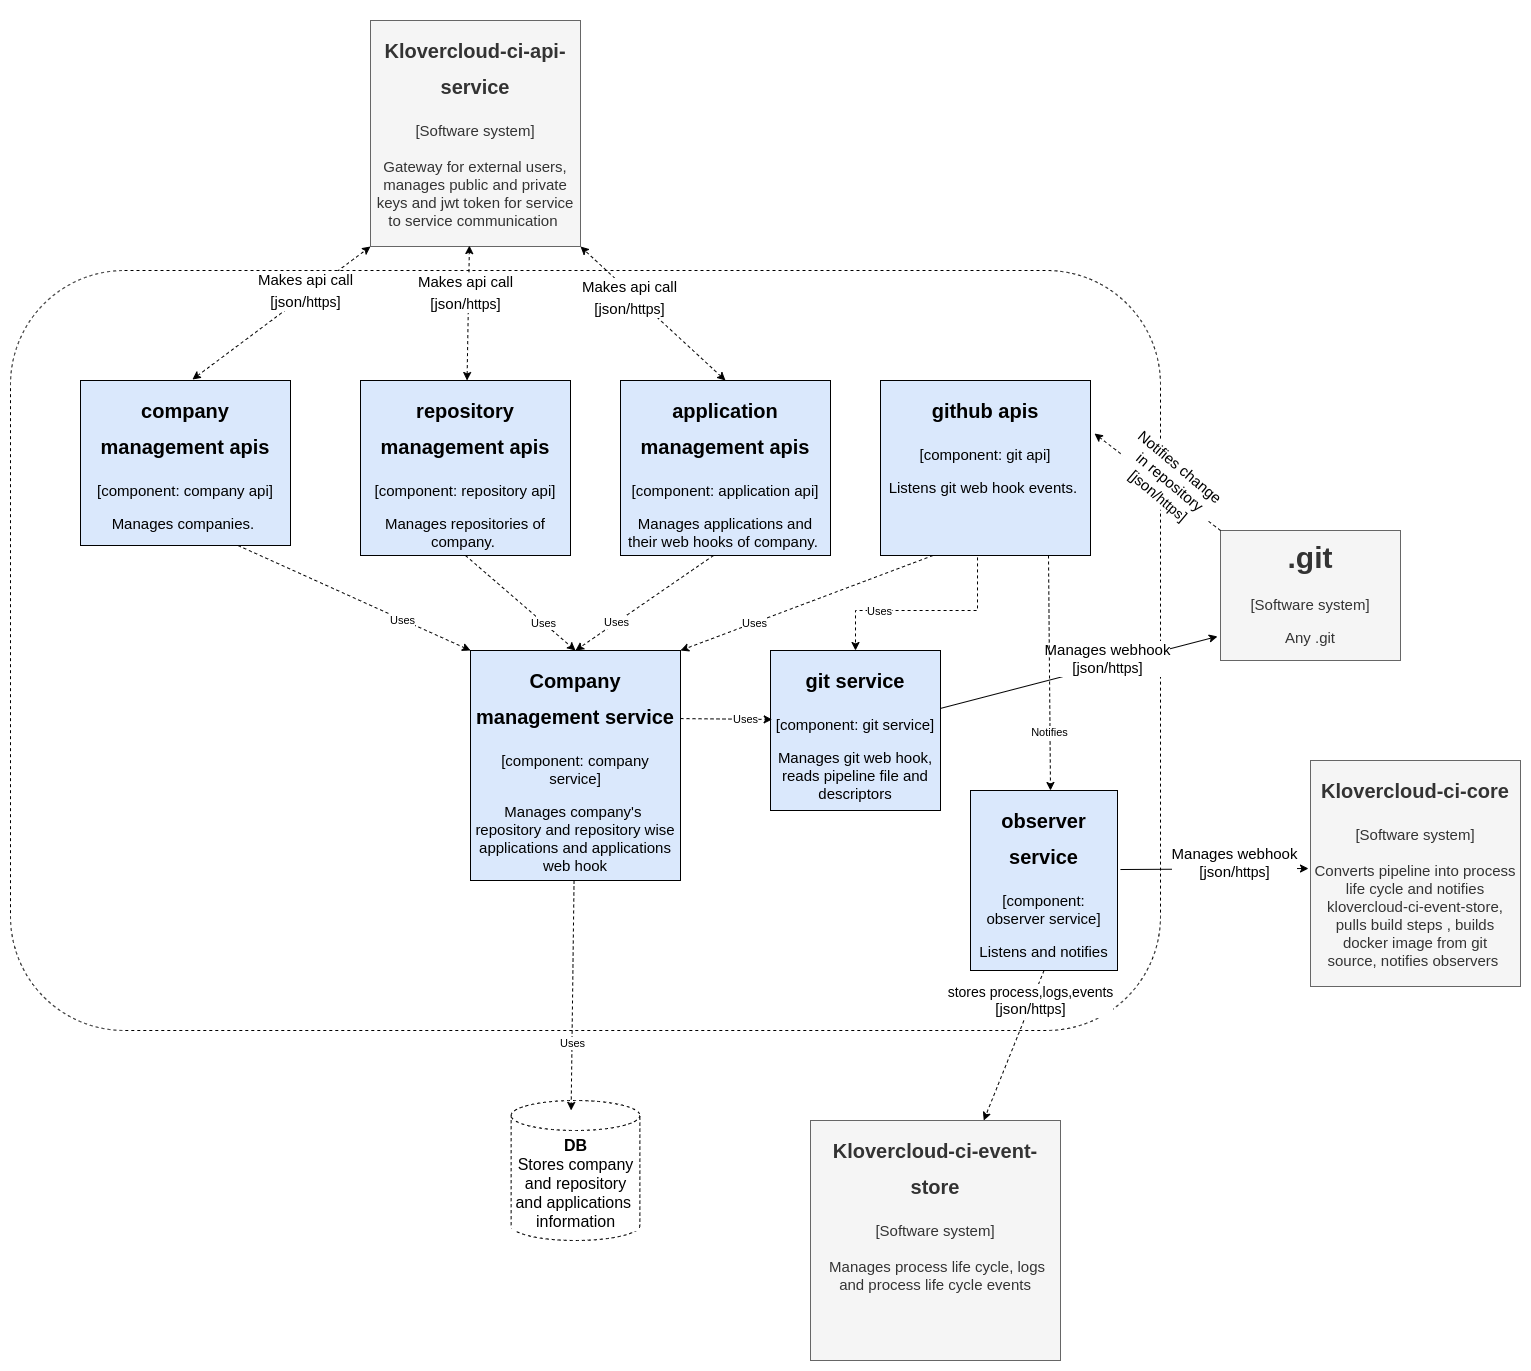
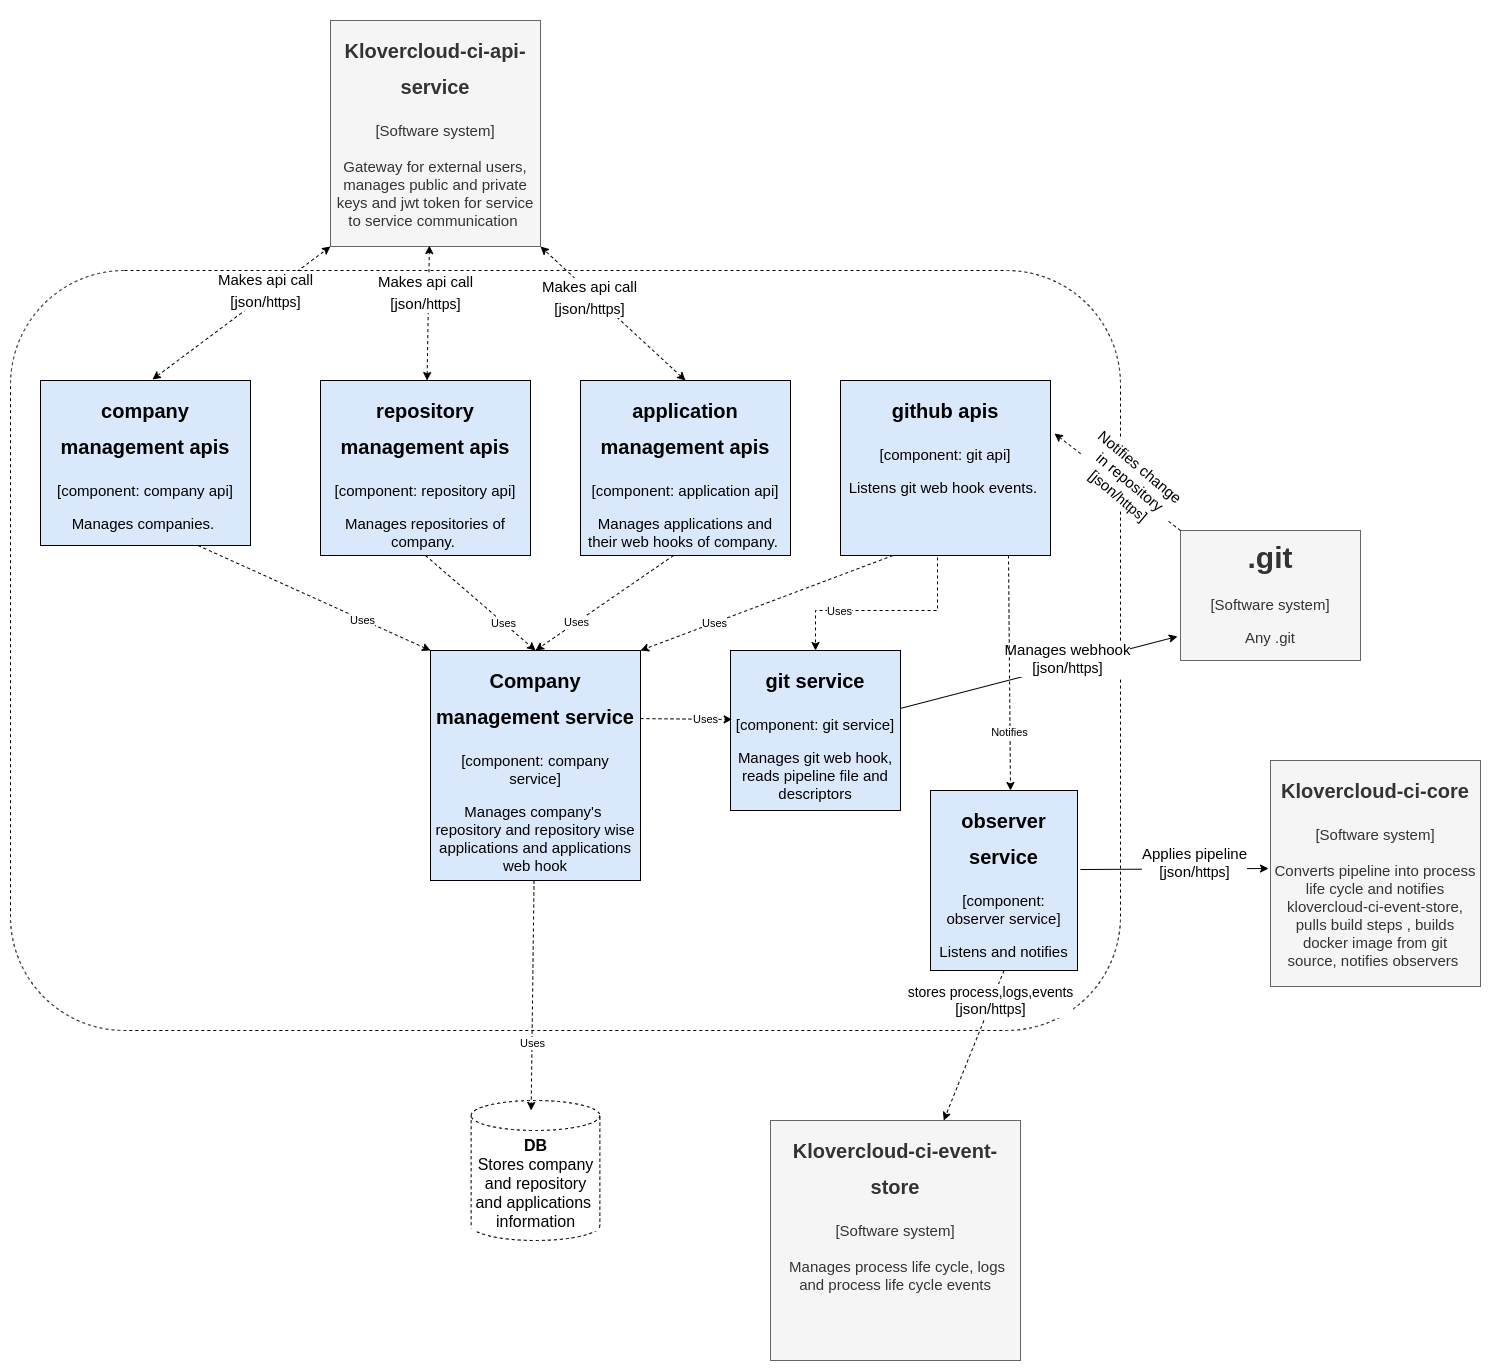
add klovercloud-ci-core component diagram

diff --git a/README.md b/README.md
@@ -7,3 +7,7 @@
 
 # Component Diagram: Klovercloud-ci-integration-manager
 ![component diagram: Klovercloud-ci-integration-manager](files/component.klovercloud-ci-integration-manager.png)
+
+# Component Diagram: Klovercloud-ci-core 
+![component diagram: Klovercloud-ci-core](files/component.klovercloud-ci-core.png)
+
